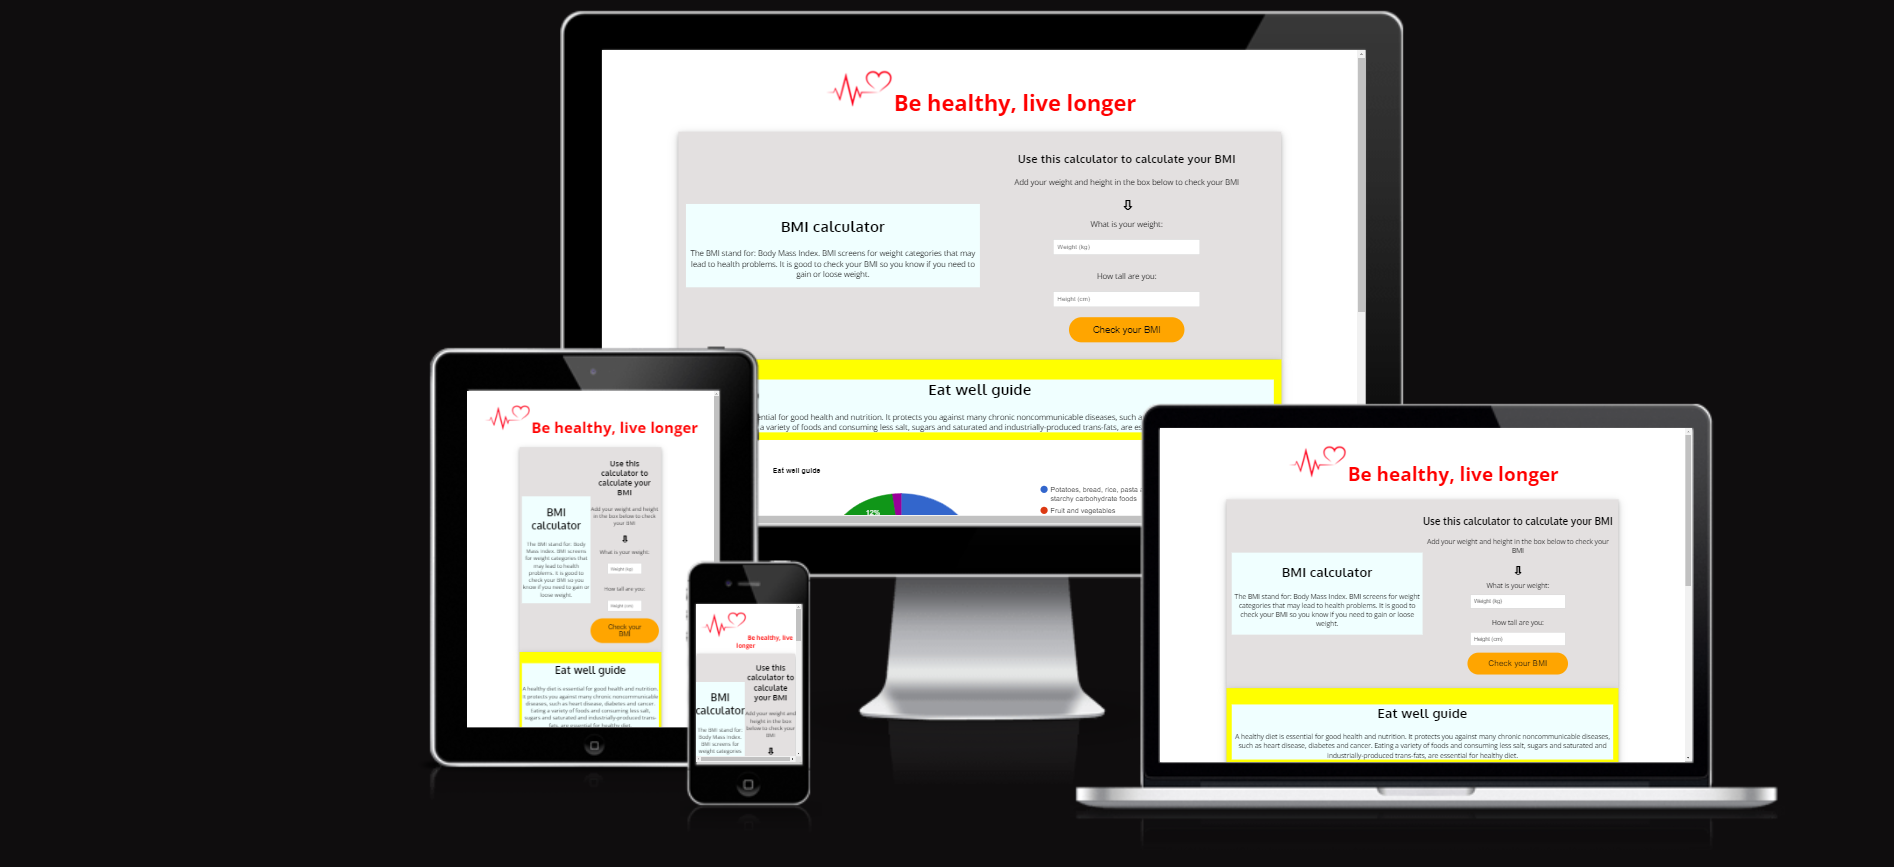
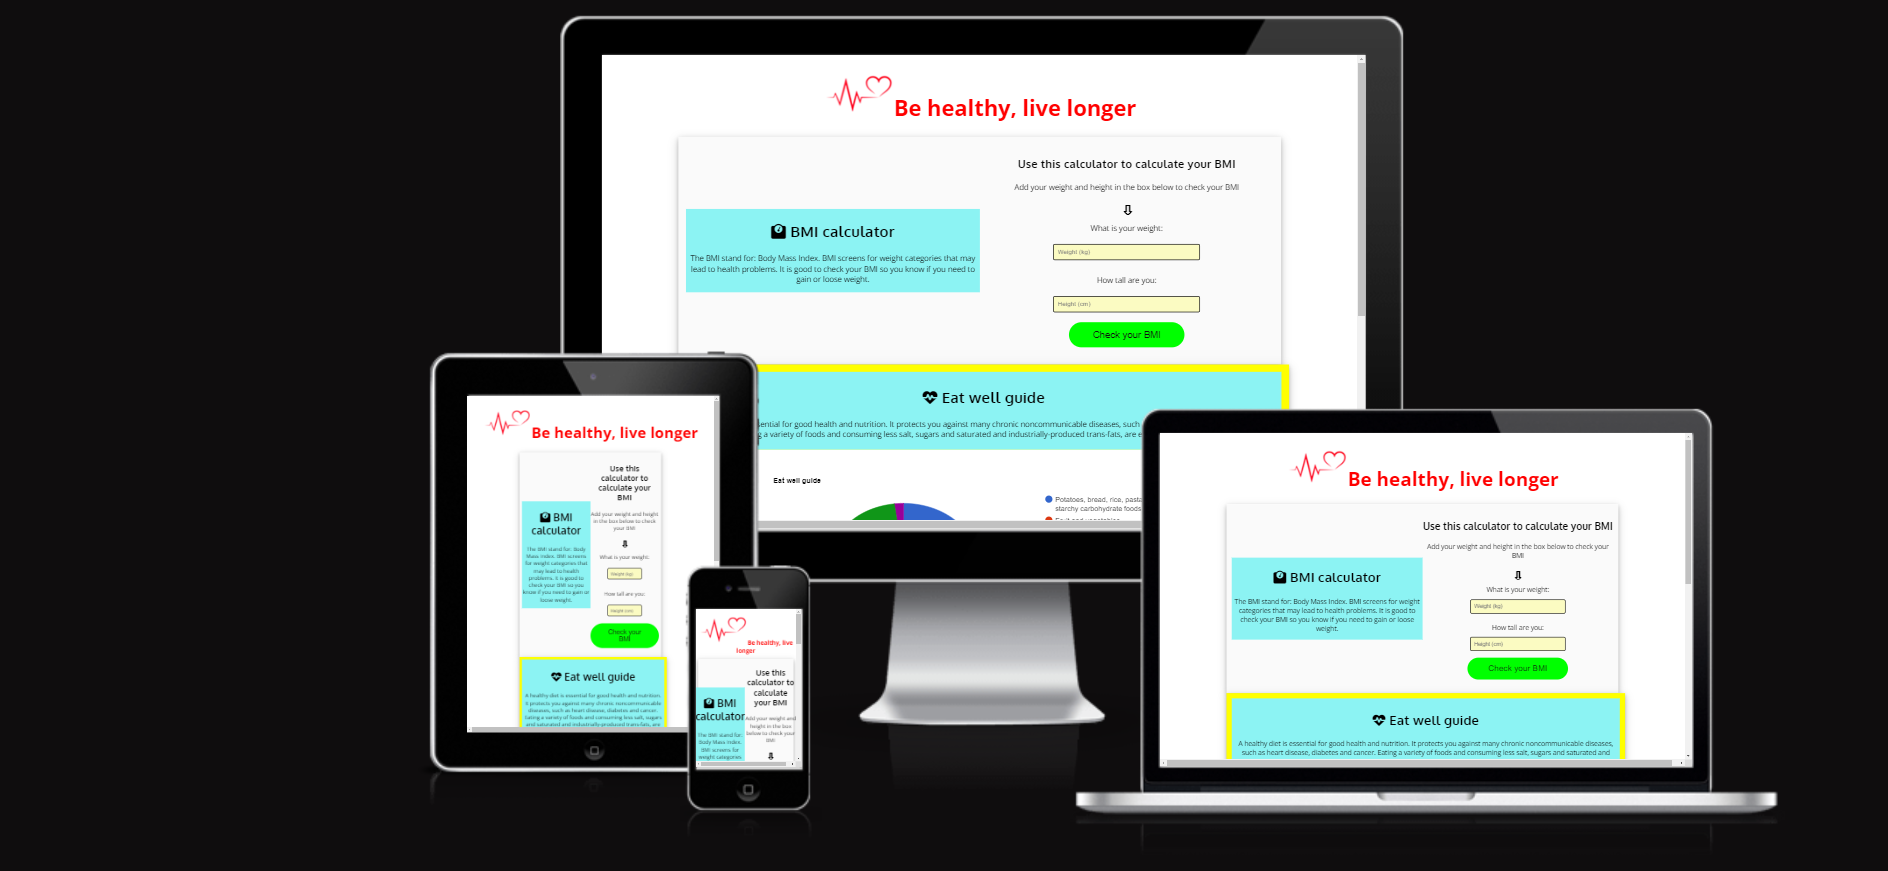
Check readme for spelling errors

Changed region(s): [[0.2188, 0.0, 0.9375, 0.9343]]

diff --git a/index.html b/index.html
@@ -14,19 +14,15 @@
     <link rel="icon" type="image/png" sizes="32x32" href="assets/favicon/favicon-32x32.png">
     <link rel="icon" type="image/png" sizes="16x16" href="assets/favicon/favicon-16x16.png">
     <link rel="stylesheet" href="assets/css/style.css">
-
     <script src="https://www.gstatic.com/charts/loader.js"></script>
-    
-    
 </head>
 
 <!--Main content-->
 
 <body>
-
     <!--BMI calculator section-->
     <h1 class="heading">
-        <img src="assets/images/heart-1.png" alt="Active heart">Be healthy, live longer
+        <img src="assets/images/heart.png" alt="Active heart">Be healthy, live longer
     </h1>
     <div class="container">
         <div class="bmi-style">
@@ -62,10 +58,10 @@
     <div class="piechart_container">
         <div class="piechart_details">
             <h2><i class="fa-solid fa-heart-pulse"></i> Eat well guide</h2>
-                <p>A healthy diet is essential for good health and nutrition. It protects you against many chronic
-                    noncommunicable diseases, such as heart disease, diabetes and cancer. Eating a variety of foods and
-                    consuming less salt, sugars and saturated and industrially-produced trans-fats, are essential for
-                    healthy diet.</p>
+            <p>A healthy diet is essential for good health and nutrition. It protects you against many chronic
+                noncommunicable diseases, such as heart disease, diabetes and cancer. Eating a variety of foods and
+                consuming less salt, sugars and saturated and industrially-produced trans-fats, are essential for
+                healthy diet.</p>
         </div>
         <div id="piechart_3d"></div>
     </div>

diff --git a/assets/css/style.css b/assets/css/style.css
@@ -4,7 +4,7 @@
 
 body {
 
-  background-color: rgb(255, 255, 255);
+  background-color: #fafafa;
   font-family: "Open Sans", sans-serif;
   color: black;
   text-align: center;
@@ -109,7 +109,7 @@ button:hover {
 /*Style the popup box*/
 .popup {
   width: 500px;
-  background: rgb(232, 231, 231);
+  background-color: rgb(232, 231, 231);
   border-radius: 10px;
   position: absolute;
   top: 0;
@@ -248,7 +248,8 @@ button:hover {
   }
 
   .piechart_details {
-    max-width: 600px;;
+    max-width: 600px;
+    ;
     margin-left: 6px;
     margin-right: 6px;
   }

diff --git a/assets/js/script.js b/assets/js/script.js
@@ -81,7 +81,7 @@ function openPopup() {
 function closePopup() {
   popup.classList.remove("open-popup");
 }
- 
+
 var google = window.google;
 
 // Load the visualisation API and the correct package
@@ -132,7 +132,6 @@ function addFluids() {
 
   // Show liquid amount on UI
   totalAmountValue.textContent = totalLiquidAmount;
-
 
   //Popup message to inform user if the reached their target
   if (fluidInputValue.value <= 0) {

diff --git a/README.md b/README.md
@@ -16,7 +16,6 @@ The user will be able to input their weight and height and the site will calcula
 
 There is a fluid input box which will allow the user to input the amount of fluids they drank and will store the result so the user can easily track the amount of fluids they drank. 
 
-
 #### Thank you for using this calculator
 
 ## UX - User Experience Design
@@ -35,16 +34,15 @@ Below I have listed the 5 plains of UX:
 ### Creator Goals
 
 - I want webpage to be easy to navigate.
-- I want webpage to be a user-friendly and responsive. 
-- I want users to be able to see what the site is about immidiately.
-
+- I want webpage to be user-friendly and responsive. 
+- I want users to be able to see what the site is about immediately.
 
 ### User Stories
 
 - As a user, I want the purpose of a webpage to be clear so I can decide if the content is right for me.
-- As a user, I want to be able to calculate my BIM by inputing mu weight and height.
+- As a user, I want to be able to calculate my BIM by inputting mu weight and height.
 - As a user, I want to be able to check what types of foods I need to eat for a healthy and well balanced diet
-- As a user, I want to monitor my fluid intake so I know if i am hydrated.
+- As a user, I want to monitor my fluid intake so I know if I am hydrated.
 
 ## The Scope Plane
 
@@ -55,46 +53,46 @@ I thought of the features I wanted to implement before designing the project, an
 - The site to have an explanation to why is it important to have a normal body weight.
 - The pie chart to be interactive and information to be displayed when the user hovers over the pie chart
 - Added a fluid calculator so the user can input the amount of fluids they drank and show them the total amount they have drank. 
-- The BMI calculator button to automatically change colors which will make the user drawn to click the button.
+- The BMI calculator button automatically change colors which will make the user drawn to click the button.
 - The result for the BMI to be in a popup window.
 
 ## The Scope Plane
 
 ### Colors
 
-rgb(227, 224, 224):
-- BMI container background 
-
-![rgb(227, 224, 224)](assets/images/rgb-227-224-224.png)
-
 red:
 - Header text
 
 ![rgb(255, 0, 0)](assets/images/red.png)
 
-#fafafa :
+Hex - fafafa:
+- BMI container background 
+- Fluids container background
 - Fluids text button
 
 ![#fafafa Hex Color](assets/images/white.png)
 
-Azure :
+Lightblue:
 - BMI calculator heading and paragraph background 
-- Eat well guid heading and paragraph background
+- Eat well guide heading and paragraph background
 - Monitor your fluid intake background
 
-![rgb(240, 255, 255 )](assets/images/azure.png)
-
-rgb(40, 215, 254):
-- Fluids container background
-
-![rgb(40, 215, 254 )](assets/images/rgb-40-215-254.png)
+![rgb(140, 243, 243))](assets/images/light-blue.png)
 
 Yellow:
-- Eat well guid background
-- Popup background
+- Eat well guide background
 
 ![rgb(255, 255, 0)](assets/images/yellow.png)
 
+Grey:
+- Popup background
+
+![rgb(232, 231, 231)](assets/images/grey.png)
+
+Blue:
+- Button background
+
+![rgb(0, 0, 255)](assets/images/blue.png)
 
 ### Fonts
 
@@ -104,27 +102,26 @@ Both fonts used in this project are Google Fonts.
 I used Oxygen as the main font, as it's one of the most popular and user-friendly fonts. The Oxygen font is easy to read even on the smallest devices and provides a positive user experience.
 
 #### Open Sans:
-Open Sans font has been used for the headings. Using a different font for these features helped me highlight important sections to user and made the website easier and quicker to navigate.
+Open Sans font has been used for the headings. Using a different font for these features helped me highlight important sections and made the website easier and quicker to navigate.
 
 ## The Skeleton Plane
 
 I made some changes to my project. Some features have become unnecessary or have caused poor user experience, so I decided to make them user friendly.
 
-- The information about BMI and hydration was hard to be distingushed so i added a different color background so the user can read easyer the information
+- The information about BMI and hydration was hard to be distinguished so I added a different color background so the user can read easier the information
 
-- The text color for the BMI button was hard to read because of the color blinking so i changed the text color 
+- The text color for the BMI button was hard to read because of the color blinking so I changed the text color 
 
 - The website requires a refresh after the screen was resized to allow the pie chart to resize as per the screen size. 
-
 
 ## The Surface Plane
 
 ### Features present across the project 
 
-### Calculate BMI section :
+### Calculate BMI section:
 
 - The calculator is responsive for all devices
-- The the input box is only for numbers
+- The input box is only for numbers
 
 **Desktop** : 
 
@@ -142,7 +139,7 @@ I made some changes to my project. Some features have become unnecessary or have
 
 ![BMI Calculator](testing/bmi-calculator.png)
 
-    - Tells the user about importance of having a normal body weight and the user can calculate their onw BMI.
+    - Tells the user about importance of having a normal body weight and the user can calculate their own BMI.
 
 ### Eat well guide
 
@@ -153,13 +150,13 @@ I made some changes to my project. Some features have become unnecessary or have
 
 ![Fluid intake monitoring](testing/monitor-fluid-intake.png)
 
-    - Tells the user about the importance of keeping hydrated and then the user can input the amout of fluids they drank and every time they add more fluids the total will be added.
+- Tells the user about the importance of keeping hydrated and then the user can input the amount of fluids they drank and every time they add more fluids the total will be added.
 
 ## Testing
 
 ### Manual testing
 
-- Full page :
+- Full page:
     - The page is fully responsive on large/medium/small resolutions.
     - The website requires a refresh after the screen was resized to allow the pie chart to resize as per the screen size. 
 
@@ -173,24 +170,23 @@ I made some changes to my project. Some features have become unnecessary or have
     - Hover button changes color when mouse hovers
     - Input field only accepts numbers
     - Result is added correctly underneath the button
-    - Alert window opens and correct message is displied.  
-
+    - Alert window opens and correct message is displayed.  
 
 #### Devices used during testing:
 
 - HP laptop
-- Iphone 14 Pro Max
-- Iphone 13 Pro
+- iPhone 14 Pro Max
+- iPhone 13 Pro
 
 ### Chrome Dev Tools
 
-Chrome dev tools was used throughout the development of the project to test responsiveness. 
+Chrome dev tools were used throughout the development of the project to test responsiveness. 
 Responsiveness was tested using Dev Tools to emulate the following devices :
 
-- Iphone SE
-- Iphone XR
-- Iphone 12 Pro
-- Iphone 14 Pro Max
+- iPhone SE
+- iPhone XR
+- iPhone 12 Pro
+- iPhone 14 Pro Max
 - Pixel 7
 - Samsung Galaxy S8+
 - Samsung Galaxy S20 Ultra
@@ -207,7 +203,7 @@ Responsiveness was tested using Dev Tools to emulate the following devices :
 ### Browser Testing
 
 During development, webpage was mainly tested on Google Chrome. 
-However, during testing process below browsers have been used :
+However, during testing process below browsers have been used:
 
 - Google Chrome
 - Microsoft Edge
@@ -233,17 +229,43 @@ However, during testing process below browsers have been used :
 
 ![CSS validator results](testing/css-validator.png)
 
+- I checked the JavaScript code using JSHint. 
+[JavaScript validator](https://jshint.com/)
+
+- The first time when I checked my code I had the following errors:
+
+- 21 warnings
+- 4 undefined variables
+- 3 unused variables
+
+![JavaScript validator results first time](testing/js-validator-before.png)
+
+- I have rectified the errors, and this is the result:
+
+- 1 warning
+- 0 undefined variables
+- 3 unused variables 
+
+- The warning remaining is: Exponentiation operator' is only available in ES7 (use 'esversion: 7'). I used and exponential operator which is for esversion:7 but the JSHint validator can only validate for esversion:6.
+
+- The three unused variables are remaining because one is called from the DOM and the other two are adding and removing the Popup window when button is clicked. 
+- calculateBMI
+- openPopup
+- closePopup
+
+![JavaScript validator after fixing errors](testing/js-validator-after.png)
+
 ### Bugs and Fixes
 
-    - The website requires a refresh after the screen was resized to allow the pie chart to resize as per the screen size. 
-
+- The website requires a refresh after the screen is resized to allow the pie chart to resize as per the screen size. 
+- Popup window opened despite no data being introduced in the input box. This was resolved by adding a function which stops the popup window to open unless the correct value was introduced into the input box
 
 ## Deployment 
 
 The main branch of this repository is the most current version and has been used for the deployed version of the site.
-The Code Institiue student template was used to create this project.
+The Code Institute student template was used to create this project.
 
-[Code Institute Template ](https://github.com/Code-Institute-Org/ci-full-template)
+[Code Institute Template](https://github.com/Code-Institute-Org/ci-full-template)
 
 1. Click **Use This Template** button.
 2. Give your repository a name, and description.
@@ -267,20 +289,22 @@ The Code Institiue student template was used to create this project.
 
 ### Images :
 
-- Project image for the header was taken from Google an converted by myself
+- Project image for the header was taken from Google and converted by me
 
 ### Code :
 
 - [Code Institute, Love math project](https://github.com/Code-Institute-Solutions/Love-Math-Solutions) :
-    - Inspiration for the javascript code.
+    - Inspiration for the JavaScript code.
 
 - [Google Charts](https://developers.google.com/chart)
     - Inspiration for the Pie Chart
 
 - [Geeks for geeks](https://www.geeksforgeeks.org/):
-    - Inspiration for the blinkng button and BMI calculator javascript code
+    - Inspiration for the blinking button and BMI calculator JavaScript code
 
 - [Font Awesome](https://fontawesome.com/) :
     - Used for all icons across the website.
 
 ## Thank you to everyone who read this documentation! 
+
+
